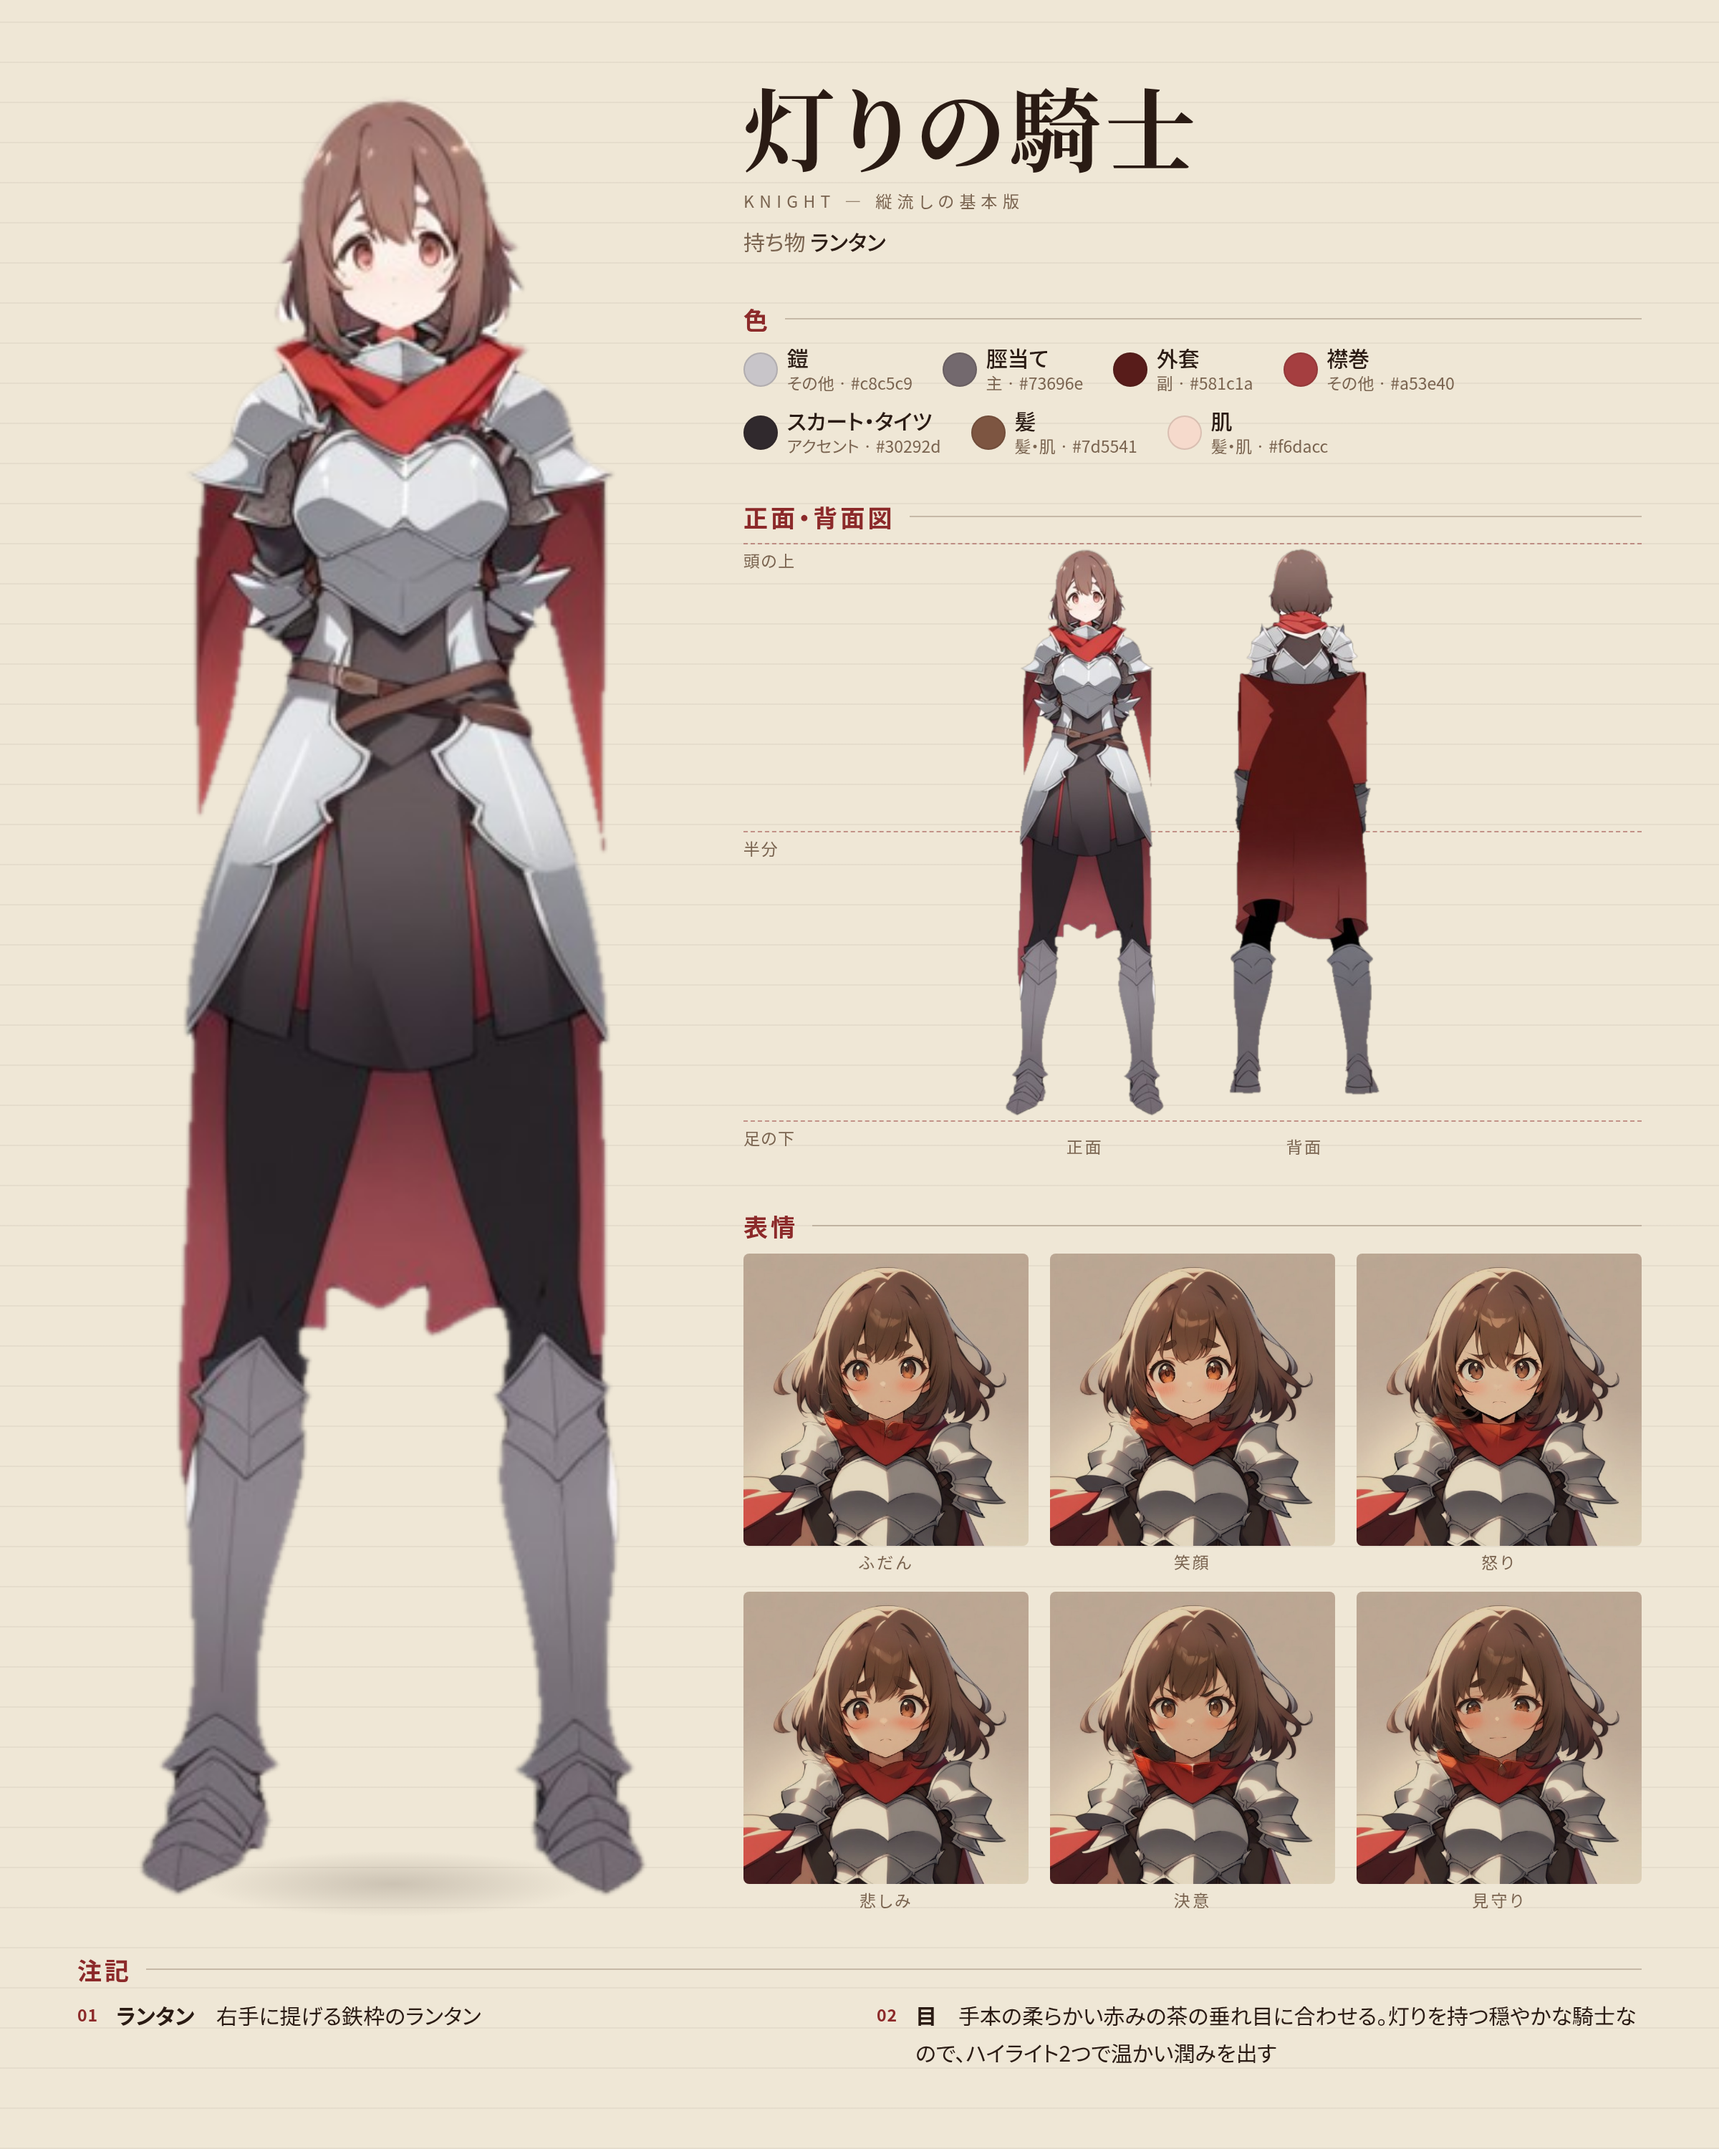
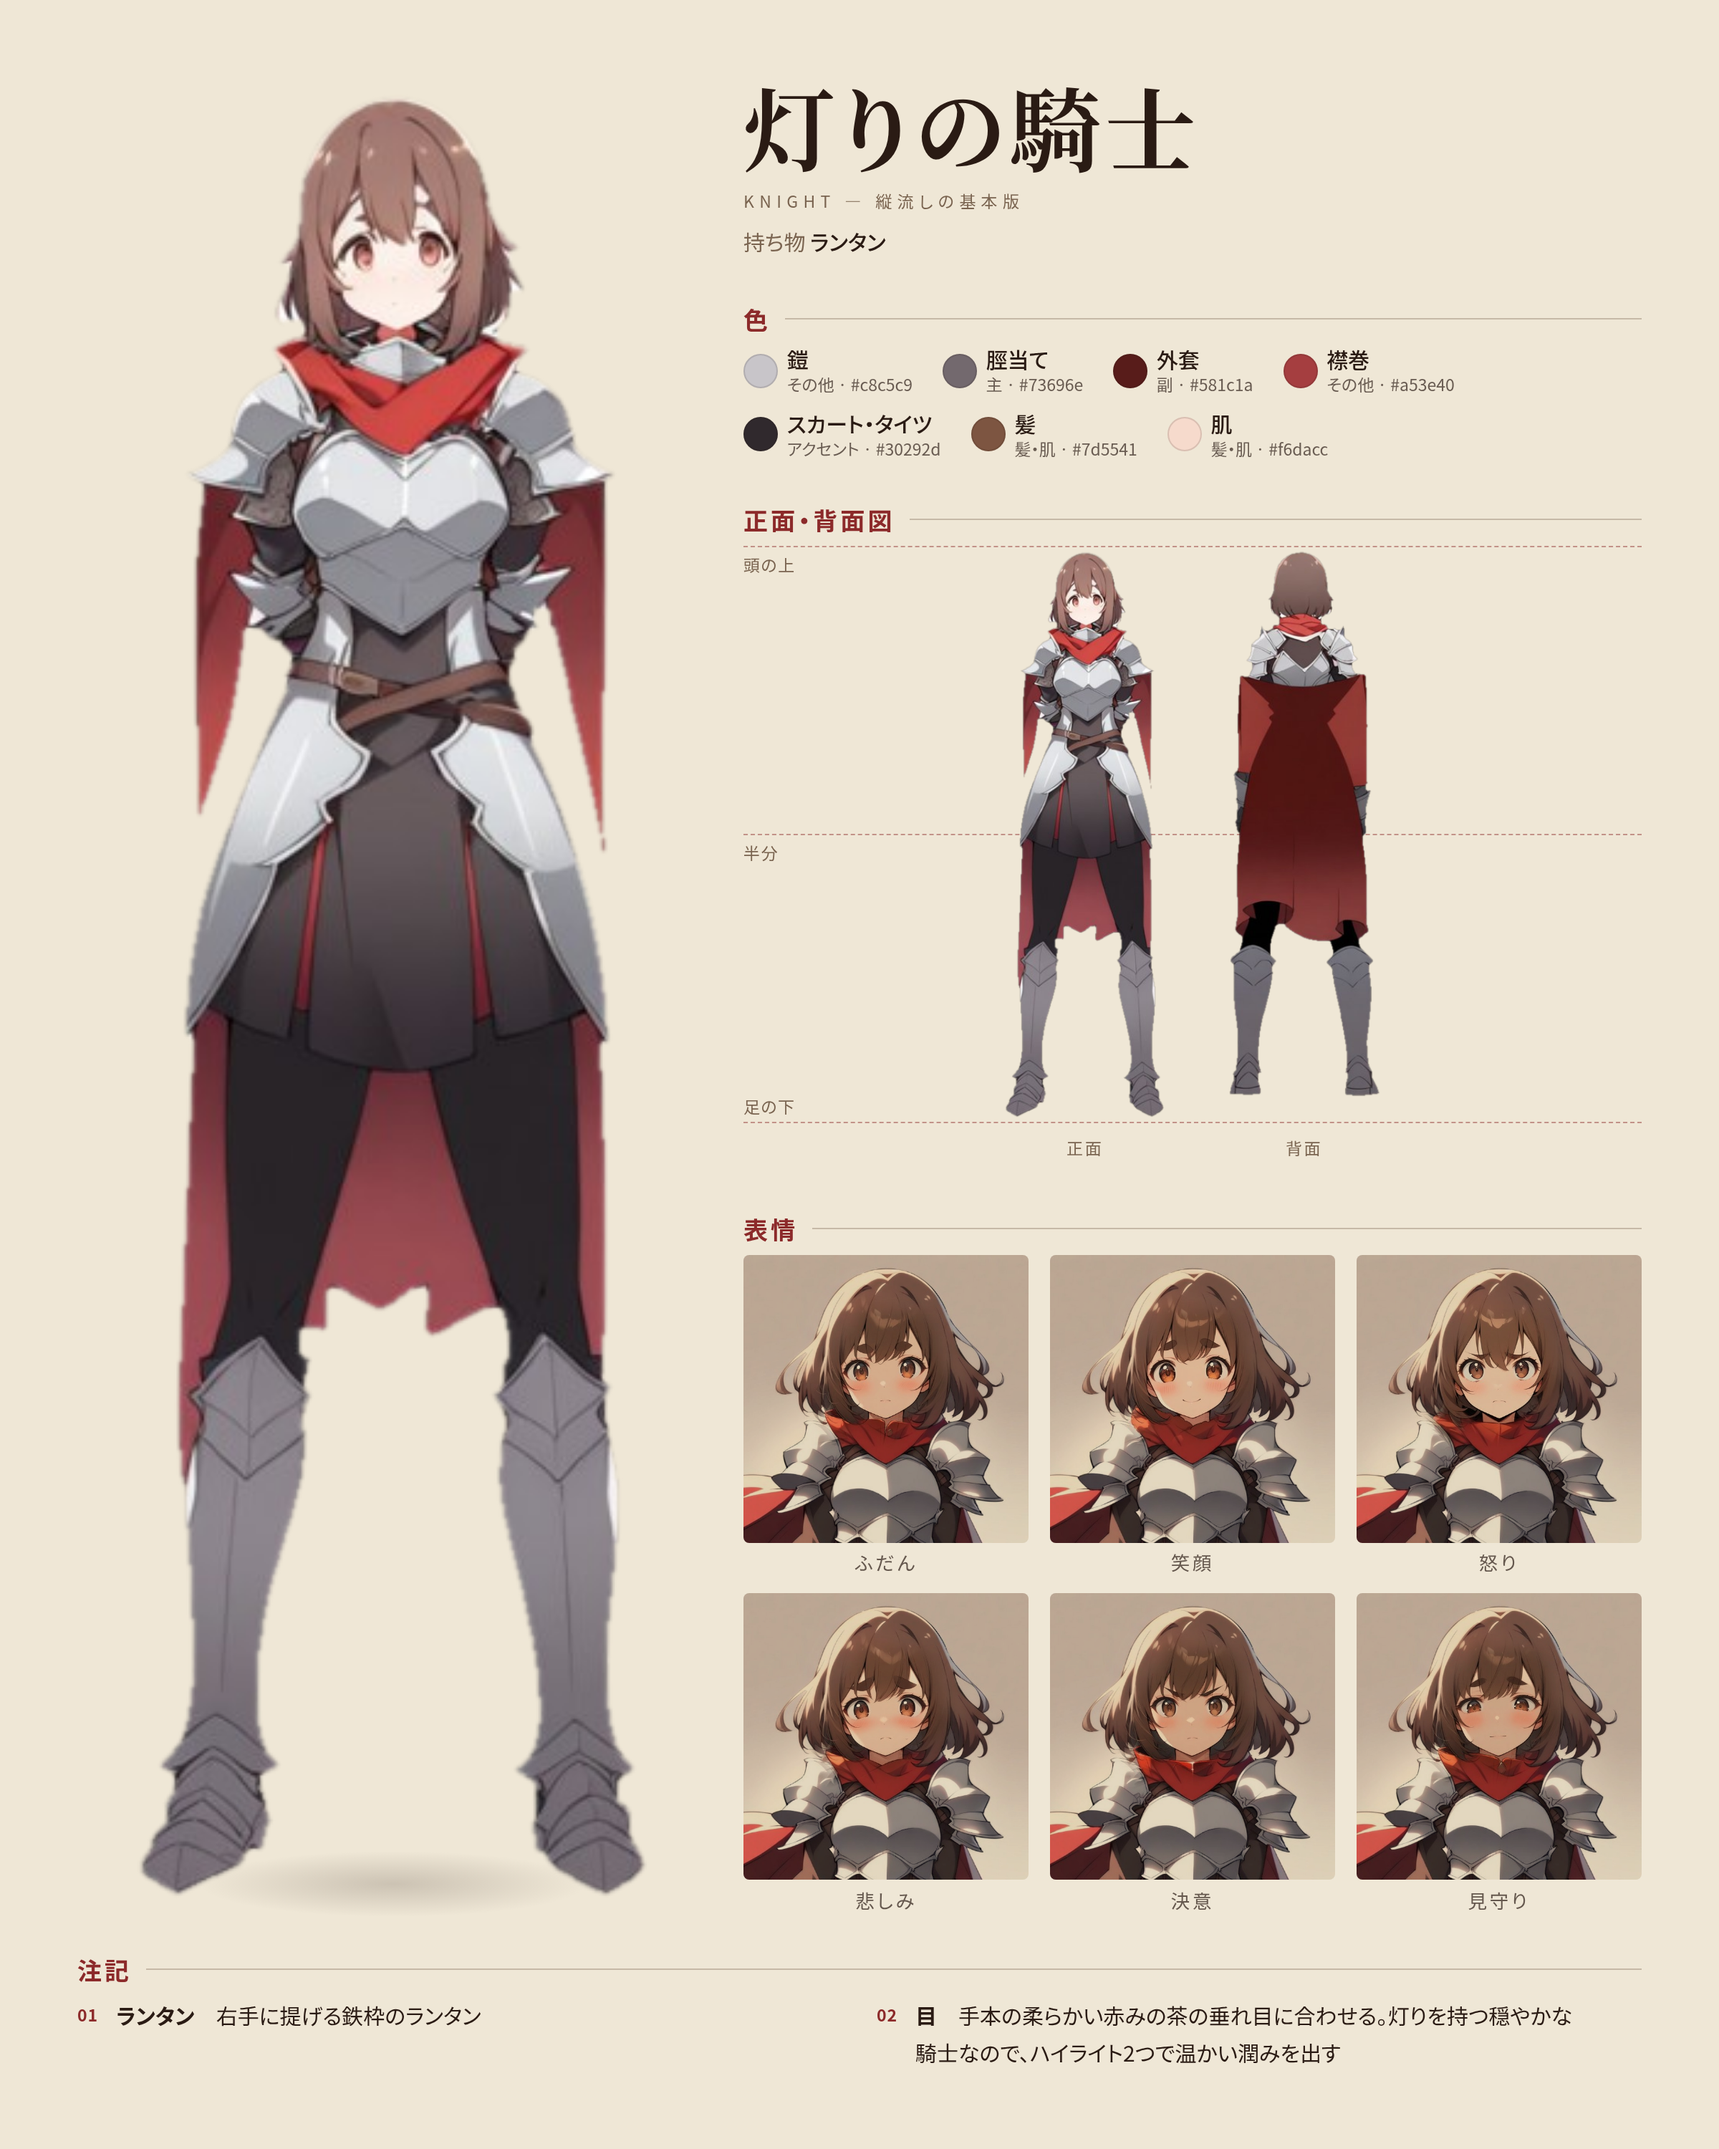
設定画集の版を批評の1周目の指摘で直す
目の拡大を顔の切り抜きの中の割合で取る、面積の帯の名前を帯の下に並べる、
総覧型の区画を組み直す、色指定型を 4:3 にする、紋章のテーマの罫の模様を外す。
書体の置き場所は cdhome に合わせ、Playwright が無い環境では書き出しの試験を飛ばす。

Claude-Session: https://claude.ai/code/session_01SckJ2FC4PhB88prMhjDTEV

diff --git a/tools/gen/sheetlayout.py b/tools/gen/sheetlayout.py
@@ -20,9 +20,10 @@ import tempfile
 from pathlib import Path
 
 import bible
+import cdhome
 import charsheet as cs
 
-FONTS = bible.ROOT / ".cache" / "fonts"
+FONTS = cdhome.HOME / "fonts"
 CHROME = os.environ.get("SHEET_CHROME", "/opt/pw-browsers/chromium-1194/chrome-linux/chrome")
 # 横の向きの名前。四面図の絵は 正面・右向き・左向き・背面 の順に描いてある
 VIEW_NAMES = {4: ["正面", "右向き", "左向き", "背面"], 2: ["正面", "背面"], 1: ["正面"]}
@@ -92,7 +93,11 @@ def _callouts(ident, c):
     im = Image.open(bible.ROOT / ex[0][1]).convert("RGB")
     def crop(r):
         return im.crop((int(r[0] * im.width), int(r[1] * im.height), int(r[2] * im.width), int(r[3] * im.height)))
-    return [("顔", crop(cs.FACE_CROP)), ("目", crop(cs.EYE_CROP))]
+    f = cs.FACE_CROP
+    # 目は顔の切り抜きの中の割合で取る。胸から上の絵の割合（EYE_CROP）は絵によって顔の高さが違い、騎士では鼻と口を切り出した
+    fw, fh = f[2] - f[0], f[3] - f[1]
+    eye = (f[0] + fw * 0.08, f[1] + fh * 0.40, f[0] + fw * 0.92, f[1] + fh * 0.66)
+    return [("顔", crop(f)), ("目", crop(eye))]
 
 
 def _font_css():
@@ -119,7 +124,7 @@ CSS = """
 *{box-sizing:border-box;margin:0;padding:0}
 html,body{width:var(--W);height:var(--H);overflow:hidden}
 body{background:var(--page);color:var(--ink);font-family:var(--font);font-weight:400;
-  -webkit-font-smoothing:antialiased;font-feature-settings:"palt"}
+  -webkit-font-smoothing:antialiased;font-feature-settings:"palt";word-break:auto-phrase;line-break:strict}
 .bg{position:absolute;inset:0;background:var(--pattern);pointer-events:none}
 .page{position:absolute;inset:var(--m);display:grid;grid-template-columns:repeat(12,1fr);
   column-gap:var(--g);row-gap:var(--rg);grid-template-areas:var(--areas);grid-template-rows:var(--rows)}
@@ -140,25 +145,26 @@ body{background:var(--page);color:var(--ink);font-family:var(--font);font-weight
 .fit img{position:absolute;display:block}
 .shadow{position:absolute;border-radius:50%;background:radial-gradient(closest-side, color-mix(in srgb, var(--ink) 18%, transparent), transparent)}
 .guide{position:absolute;left:0;right:0;height:0;border-top:1px dashed color-mix(in srgb, var(--accent) 45%, transparent)}
-.guide span{position:absolute;left:0;top:3px;font-size:var(--t-note);color:var(--sub);letter-spacing:.06em}
+.guide.up span{top:auto;bottom:4px}
+.guide span{position:absolute;left:0;top:4px;font-size:var(--t-note);color:var(--sub);letter-spacing:.06em}
 .cap{position:absolute;font-size:var(--t-note);color:var(--sub);letter-spacing:.12em;transform:translateX(-50%);white-space:nowrap}
 .faces{flex:1;display:grid;gap:var(--fg);min-height:0}
 .face{display:flex;flex-direction:column;min-height:0}
 .face .im{flex:1;min-height:0;background:var(--tile);border-radius:var(--radius);overflow:hidden;position:relative}
-.face img{position:absolute;inset:0;width:100%;height:100%;object-fit:cover;object-position:50% 12%;mix-blend-mode:multiply}
-.face p{font-size:var(--t-note);letter-spacing:.14em;color:var(--sub);text-align:center;margin-top:.55em;line-height:1}
+.face img{position:absolute;inset:0;width:100%;height:100%;object-fit:cover;object-position:50% 25%;mix-blend-mode:multiply}
+.face p{font-size:calc(var(--t-note) * 1.15);color:color-mix(in srgb, var(--ink) 70%, var(--page)) !important;letter-spacing:.14em;color:var(--sub);text-align:center;margin-top:.55em;line-height:1}
 .notes{list-style:none;font-size:var(--t-body);line-height:1.75;counter-reset:n}
-.notes li{counter-increment:n;display:grid;grid-template-columns:1.8em 1fr;break-inside:avoid;margin-bottom:.55em}
+.notes li{counter-increment:n;display:grid;grid-template-columns:1.8em 1fr;margin-bottom:.55em}
 .notes li::before{content:counter(n,decimal-leading-zero);color:var(--accent);font-weight:700;font-size:var(--t-note);padding-top:.25em;letter-spacing:.04em}
 .notes b{font-weight:700}
 .chips{display:flex;flex-wrap:wrap;gap:calc(var(--t-body) * .7) calc(var(--t-body) * 1.4)}
-.chip{display:flex;align-items:center;gap:.55em;font-size:var(--t-note);color:var(--sub);line-height:1.25}
+.chip{display:flex;align-items:center;gap:.55em;font-size:var(--t-note);color:color-mix(in srgb, var(--ink) 68%, var(--page));line-height:1.3}
 .chip i{width:calc(var(--t-body) * 1.6);height:calc(var(--t-body) * 1.6);border-radius:50%;flex:none;
   box-shadow:inset 0 0 0 1px color-mix(in srgb, var(--ink) 14%, transparent)}
 .chip b{display:block;color:var(--ink);font-weight:500;font-size:var(--t-body)}
 .swl{display:grid;grid-template-columns:repeat(var(--swc,1),1fr);column-gap:var(--g);row-gap:calc(var(--t-body) * .8)}
 .swt{width:100%;border-collapse:collapse;font-size:var(--t-body)}
-.swt td{padding:calc(var(--t-body) * .62) 0;border-bottom:1px solid color-mix(in srgb, var(--sub) 25%, transparent);vertical-align:middle}
+.swt td{padding:calc(var(--t-body) * .42) 0;border-bottom:1px solid color-mix(in srgb, var(--sub) 25%, transparent);vertical-align:middle}
 .swt td.k{width:calc(var(--t-body) * 3.4)}
 .swt i{display:block;width:calc(var(--t-body) * 2.6);height:calc(var(--t-body) * 2.6);border-radius:var(--radius);
   box-shadow:inset 0 0 0 1px color-mix(in srgb, var(--ink) 14%, transparent)}
@@ -169,11 +175,11 @@ body{background:var(--page);color:var(--ink);font-family:var(--font);font-weight
 .swt .bar span{display:block;height:100%;background:var(--accent)}
 .swt .p{text-align:right;font-size:var(--t-note);color:var(--sub);width:4em}
 .sbar{display:flex;height:calc(var(--t-body) * 2.2);border-radius:var(--radius);overflow:hidden}
-.sleg{display:flex;font-size:var(--t-note);color:var(--sub);margin-top:.5em;line-height:1.3}
-.sleg div{overflow:hidden;white-space:nowrap;text-overflow:clip;padding-right:4px}
+.sleg{margin-top:calc(var(--t-body) * .8);gap:calc(var(--t-body) * .5) calc(var(--t-body) * 1.1)}
+.sleg .chip i{width:calc(var(--t-note) * 1.1);height:calc(var(--t-note) * 1.1)}
 .strip{display:flex;height:calc(var(--t-body) * 0.9);border-radius:99px;overflow:hidden}
-.calls{display:grid;grid-template-columns:1fr 1fr;gap:var(--fg)}
-.call .im{aspect-ratio:1;background:var(--tile);border-radius:var(--radius);overflow:hidden}
+.calls{display:grid;grid-template-columns:1fr 1.6fr;gap:var(--fg)}
+.call .im{height:var(--callh);background:var(--tile);border-radius:var(--radius);overflow:hidden}
 .call img{width:100%;height:100%;object-fit:cover;mix-blend-mode:multiply;display:block}
 .call p{font-size:var(--t-note);color:var(--sub);margin-top:.5em;letter-spacing:.1em}
 .call p b{color:var(--accent);margin-right:.5em}
@@ -201,7 +207,7 @@ JS = r"""
     }
     if (box.dataset.guides) {
       for (const [name, t] of [['頭の上', 0], ['半分', 0.5], ['足の下', 1]]) {
-        const g = document.createElement('div'); g.className = 'guide'; g.style.top = (y + h * t) + 'px';
+        const g = document.createElement('div'); g.className = t === 1 ? 'guide up' : 'guide'; g.style.top = (y + h * t) + 'px';
         g.innerHTML = `<span>${name}</span>`; box.insertBefore(g, img);
       }
     }
@@ -291,10 +297,10 @@ def _panel_html(pn, ctx):
         sw = sorted(ctx["sw"], key=lambda s: -s["share"])
         tot = sum(s["share"] for s in sw) or 1
         segs = "".join(f'<div style="flex:{s["share"] / tot:.4f};background:{s["hex"]}"></div>' for s in sw)
-        if k == "strip":
-            return lab(pn.get("title", "")) + f'<div class="strip">{segs}</div>'
-        leg = "".join(f'<div style="flex:{s["share"] / tot:.4f}">{e(s["name"]) if s["share"] / tot >= 0.07 else ""}</div>' for s in sw)
-        return lab(pn.get("title", ""), pn.get("sub", "")) + f'<div class="sbar">{segs}</div><div class="sleg">{leg}</div>'
+        # 帯の中に名前を書くと細い区画で名前がぶつかったので、名前と割合は帯の下に並べる
+        leg = "".join(f'<div class="chip"><i style="background:{s["hex"]}"></i><div>{e(s["name"])} {s["share"] / tot * 100:.0f}%</div></div>' for s in sw)
+        bar = "strip" if k == "strip" else "sbar"
+        return lab(pn.get("title", ""), pn.get("sub", "")) + f'<div class="{bar}">{segs}</div><div class="chips sleg">{leg}</div>'
     if k == "callouts":
         cl = _callouts(ctx["ident"], c)
         if not cl:
@@ -334,7 +340,7 @@ def _theme_vars(th, c, W, H, fm):
     v = {
         "--W": f"{W / 2}px", "--H": f"{H / 2}px", "--m": f"{m:.1f}px",
         "--g": f"{fm.get('gutter', 0.02) * W / 2:.1f}px", "--rg": f"{fm.get('row_gap', 0.028) * W / 2:.1f}px",
-        "--fg": f"{fm.get('face_gap', 0.012) * W / 2:.1f}px",
+        "--fg": f"{fm.get('face_gap', 0.012) * W / 2:.1f}px", "--callh": f"{fm.get('callout_h', 0.09) * W / 2:.1f}px",
         "--page": col["page"], "--ink": col["ink"], "--sub": col["sub"], "--accent": col["accent"], "--tile": col["card"],
         "--pattern": PATTERNS.get(th.get("motif", "none"), "none"),
         "--font": serif if th.get("font") == "serif" else sans,

diff --git a/tests/test_sheet_formats.py b/tests/test_sheet_formats.py
@@ -10,6 +10,9 @@ ROOT = Path(__file__).resolve().parents[1]
 sys.path.insert(0, str(ROOT / "tools" / "gen"))
 import charsheet  # noqa: E402
 
+# 書き出しは Chromium（Playwright）で行う。入っていない環境では書き出しの試験だけを飛ばす
+needs_browser = pytest.mark.skipif(__import__('importlib').util.find_spec('playwright') is None, reason='playwright が無い')
+
 NAMES = [p.stem for p in sorted((ROOT / "styles" / "sheet-formats").glob("*.json"))]
 THEMES = [p.stem for p in sorted((ROOT / "styles" / "sheet-themes").glob("*.json"))]
 
@@ -32,6 +35,7 @@ def test_format_grid_is_12_columns(name):
         assert pn["area"] in named, pn
 
 
+@needs_browser
 @pytest.mark.parametrize("name", NAMES)
 def test_sample_renders_without_overflow(name, tmp_path):
     r = charsheet.sheet_format("sheep-girl", name, str(tmp_path / f"{name}.png"))
@@ -62,6 +66,7 @@ def test_themes_load_and_one_default():
         assert len(set(th["colors"].values())) <= 6, t["name"]
 
 
+@needs_browser
 @pytest.mark.parametrize("theme", THEMES)
 @pytest.mark.parametrize("name", ["overview", "social"])
 def test_theme_and_format_combine_without_overflow(theme, name, tmp_path):
